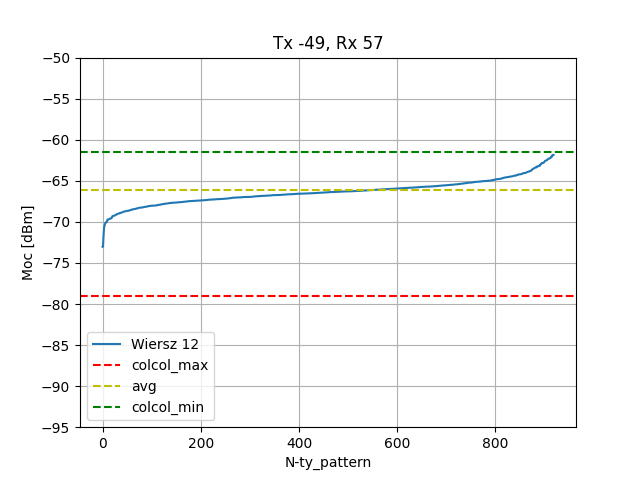
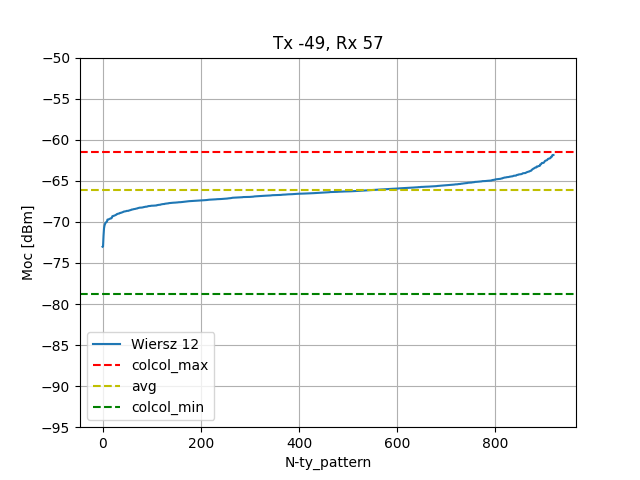
Fix for buggy min max pattern selection

diff --git a/Math_model_codebook_measures/wyniki/grid_measures/power_in_position_teams_rework.py b/Math_model_codebook_measures/wyniki/grid_measures/power_in_position_teams_rework.py
@@ -14,8 +14,25 @@ def mw_to_dbm(x):
 
 powers   = []
 
-maxs = results.maxs[-1].powers
-mins = results.mins[-1].powers
+ma1 = (results.maxs[-3].powers)
+ma2 = (results.maxs[-2].powers)
+mi1 = (results.mins[-3].powers)
+mi2 = (results.mins[-2].powers)
+
+maxs = []
+for i in range(len(ma1)):
+    if ma1[i]>ma2[i]:
+        maxs.append(ma1[i])
+    else:
+        maxs.append(ma2[i])
+
+mins = []
+for i in range(len(mi1)):
+    if mi1[i]<mi2[i]:
+        mins.append(mi1[i])
+    else:
+        mins.append(mi2[i])
+
 
 for result in results.results:
     if result.idx < 1000:
